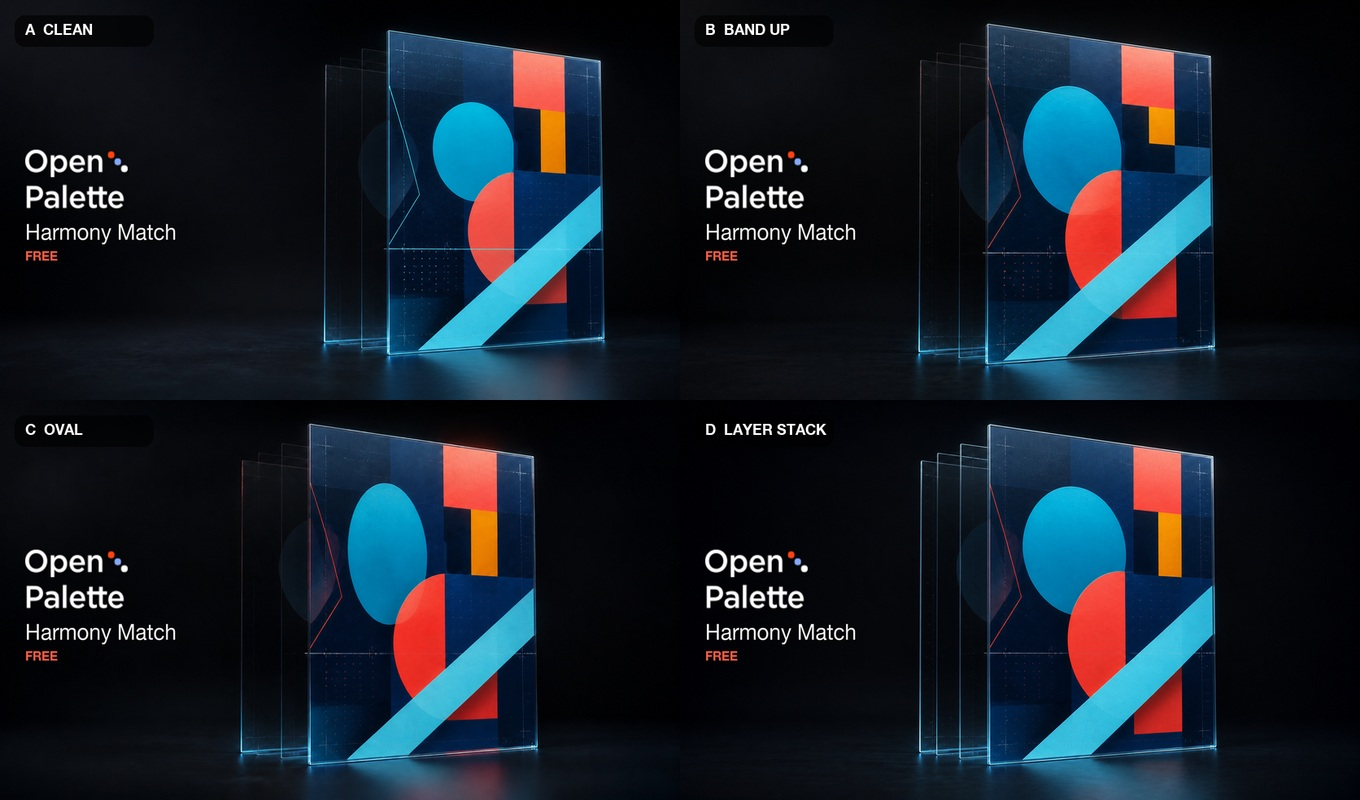
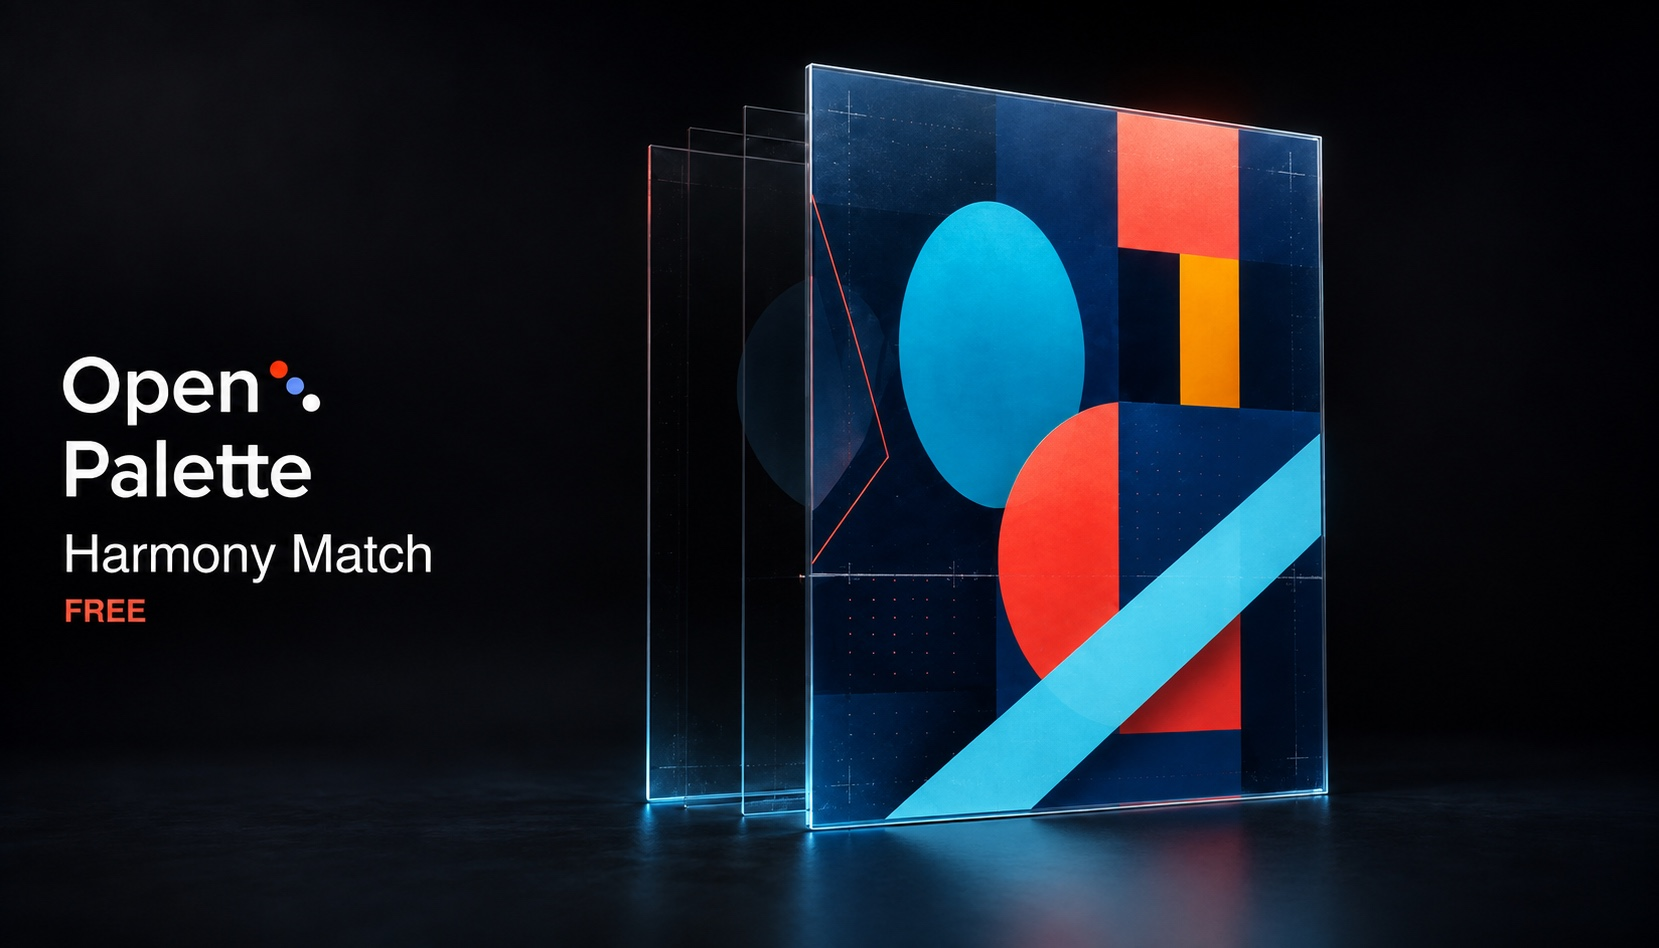
Use C concept for Harmony Match KV

diff --git a/index.html b/index.html
@@ -174,7 +174,7 @@
               </div>
             </div>
             <figure class="product-fv product-fv-match">
-              <img src="./assets/harmony-match-fv.jpg" alt="Harmony Match" width="1360" height="800" />
+              <img src="./assets/harmony-match-fv.jpg" alt="Harmony Match" width="1659" height="948" />
             </figure>
           </article>
         </div>

diff --git a/styles.css b/styles.css
@@ -556,7 +556,7 @@ a.product-action:focus-visible{outline:2px solid #f5f2ea;outline-offset:3px}
 }
 .product-fv-lines{background:#f6f0e8}
 .product-fv-gradient{background:#07366c}
-.product-fv-match{background:#10283b}
+.product-fv-match{background:#10283b;aspect-ratio:1659 / 948}
 .home-page .home-main > .tools > .product .product-fv{min-height:0}
 
 @media(max-width:900px){
